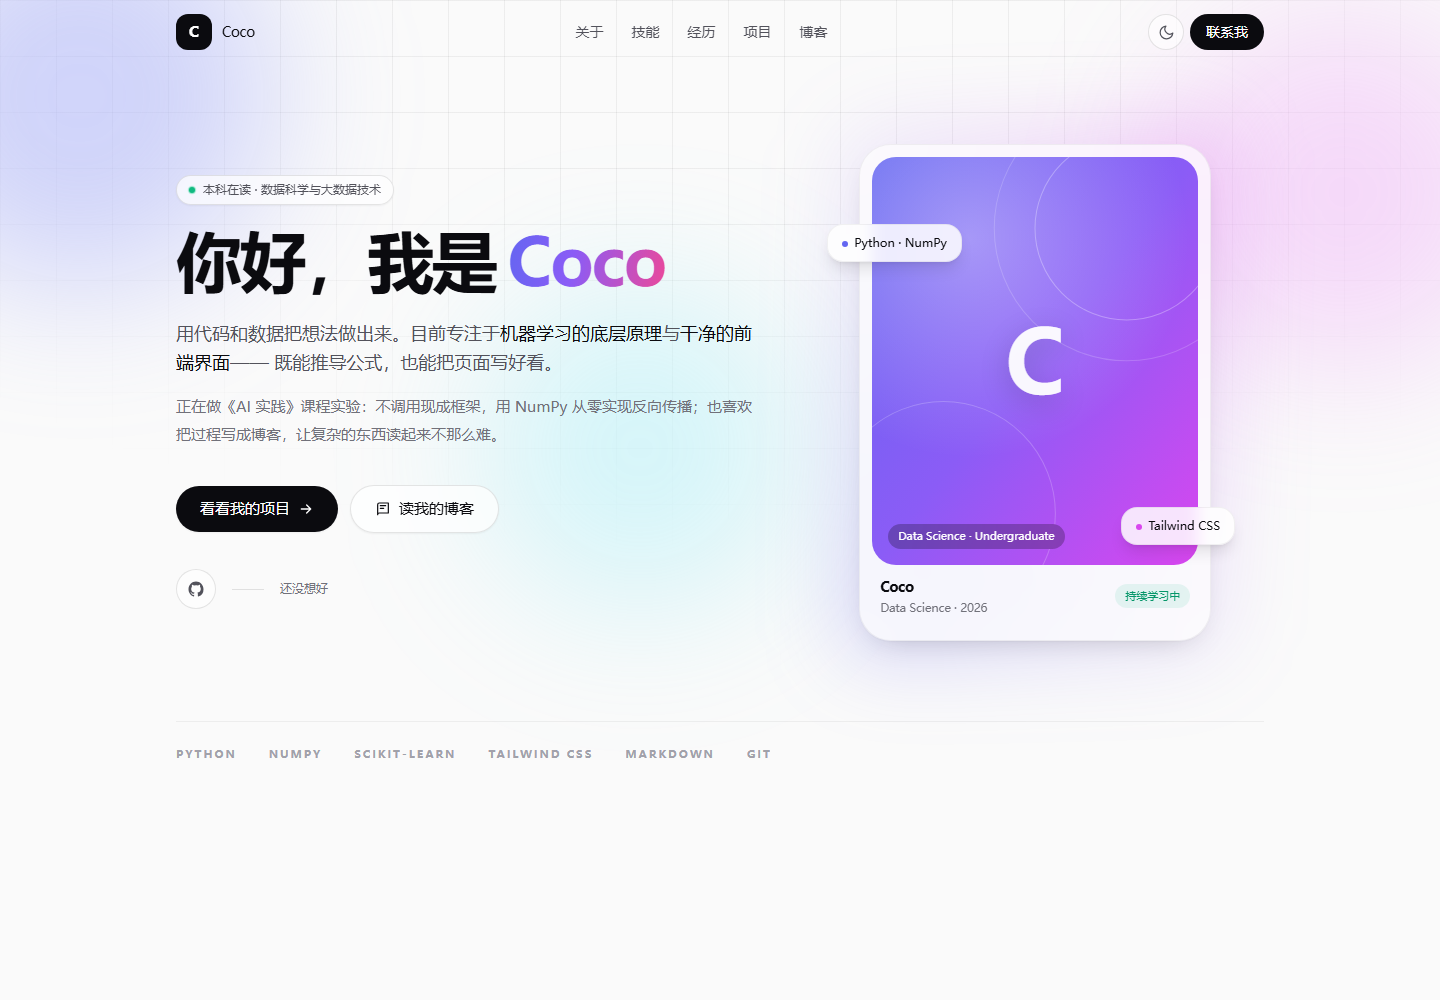
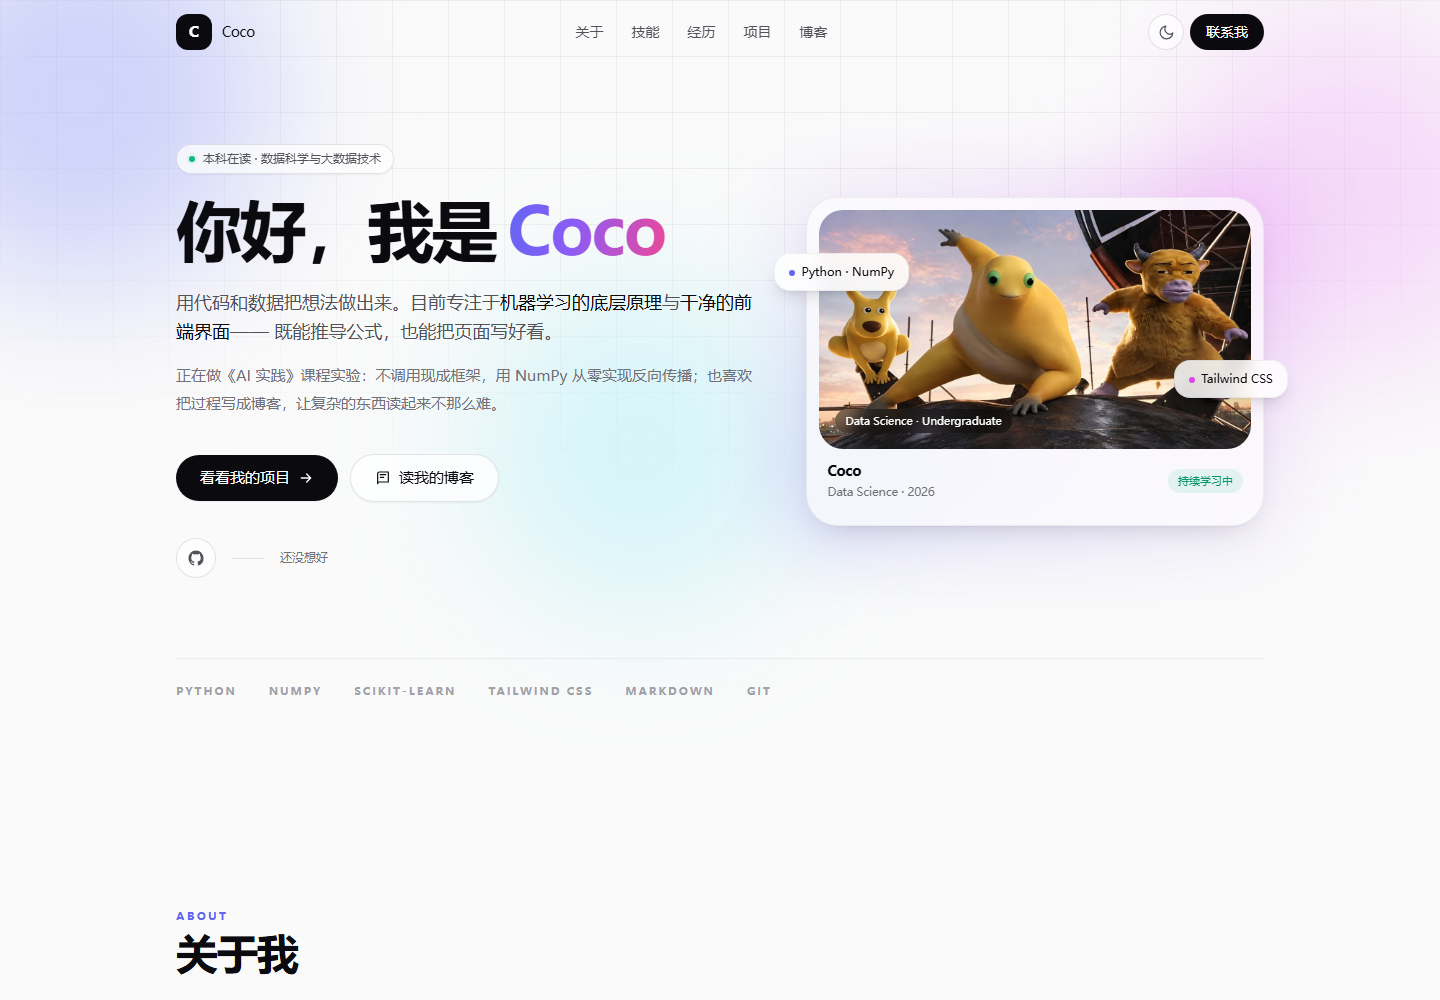
feat: 首屏视觉卡换成插画，并恢复被回退的播放器源码
- 首屏 4:5 竖版渐变卡（大写 C）替换为 hero-monster 插画
- 容器改为 aspect-[9/5]，贴合原图 1.80 比例，object-cover 等比铺满不拉伸
- 图片压到 1200px 宽 / 121KB，带 width/height 防抖动，首屏优先加载
- 桌面端卡片撑满右列，移动端 350px 自适应，无横向溢出
- 恢复 MusicPlayer.jsx / meting.js / 播放器图标与样式 / 入口挂载（此前被误删）
- 清理未使用的 profile.monogram 字段，同步更新截图与 README

diff --git a/src/components/Hero.jsx b/src/components/Hero.jsx
@@ -1,5 +1,6 @@
 import { heroTagline, profile, techStrip } from '../data/site.js'
 import { IconArrowRight, IconBook, IconGithub } from './Icons.jsx'
+import heroMonster from '../assets/hero-monster.jpg'
 
 export default function Hero() {
   return (
@@ -73,30 +74,24 @@ export default function Hero() {
           </div>
         </div>
 
-        {/* 头像卡：想换成真人照片，把下面这块渐变 div 换成 <img src="avatar.jpg" alt="..." className="h-full w-full object-cover" /> 即可 */}
-        <div className="relative mx-auto w-full max-w-[22rem]">
+        {/* 视觉卡：想换成自己的照片，替换 src/assets/hero-monster.jpg 即可，
+            容器用 aspect-[9/5] + object-cover，任何比例的照片都会等比铺满、不拉伸 */}
+        <div className="relative mx-auto w-full max-w-[24rem] lg:max-w-none">
           <div className="absolute -inset-5 rounded-[2.5rem] bg-gradient-to-tr from-indigo-500/25 via-violet-500/10 to-fuchsia-500/25 blur-2xl" />
 
           <div className="relative rounded-[2rem] border border-black/5 bg-white/70 p-3 shadow-soft backdrop-blur-xl dark:border-white/10 dark:bg-white/[0.06]">
-            <div className="relative aspect-[4/5] overflow-hidden rounded-[1.5rem] bg-gradient-to-br from-indigo-500 via-violet-500 to-fuchsia-500">
-              <svg
-                className="absolute inset-0 h-full w-full opacity-30"
-                viewBox="0 0 320 400"
-                fill="none"
-                aria-hidden="true"
-              >
-                <circle cx="250" cy="70" r="90" stroke="white" strokeWidth="1" />
-                <circle cx="250" cy="70" r="130" stroke="white" strokeWidth="1" opacity=".6" />
-                <circle cx="70" cy="350" r="110" stroke="white" strokeWidth="1" opacity=".7" />
-              </svg>
-              <div className="absolute inset-0 bg-[radial-gradient(circle_at_30%_20%,rgba(255,255,255,.35),transparent_55%)]" />
-              <span
-                className="absolute inset-0 grid place-items-center text-[5.5rem] font-semibold leading-none text-white/95"
-                style={{ textShadow: '0 8px 30px rgba(0,0,0,.18)' }}
-              >
-                {profile.monogram}
-              </span>
-              <span className="absolute bottom-4 left-4 rounded-full bg-black/25 px-2.5 py-1 text-[11px] font-medium text-white backdrop-blur">
+            <div className="relative overflow-hidden rounded-[1.5rem] bg-zinc-100 dark:bg-white/5">
+              <img
+                src={heroMonster}
+                alt="奶蛙怪兽插画"
+                width={1200}
+                height={666}
+                loading="eager"
+                decoding="async"
+                fetchPriority="high"
+                className="aspect-[9/5] w-full object-cover object-center"
+              />
+              <span className="absolute bottom-3 left-3 rounded-full bg-black/35 px-2.5 py-1 text-[11px] font-medium text-white backdrop-blur sm:bottom-4 sm:left-4">
                 {profile.since}
               </span>
             </div>
@@ -112,11 +107,11 @@ export default function Hero() {
             </div>
           </div>
 
-          <div className="absolute -left-8 top-20 hidden rounded-2xl border border-black/5 bg-white/85 px-3.5 py-2.5 text-xs font-medium shadow-lg backdrop-blur sm:block dark:border-white/10 dark:bg-white/10">
+          <div className="absolute -left-8 top-14 hidden rounded-2xl border border-black/5 bg-white/85 px-3.5 py-2.5 text-xs font-medium shadow-lg backdrop-blur sm:block dark:border-white/10 dark:bg-white/10">
             <span className="mr-1.5 inline-block h-1.5 w-1.5 rounded-full bg-indigo-500" />
             Python · NumPy
           </div>
-          <div className="absolute -right-6 bottom-24 hidden rounded-2xl border border-black/5 bg-white/85 px-3.5 py-2.5 text-xs font-medium shadow-lg backdrop-blur sm:block dark:border-white/10 dark:bg-white/10">
+          <div className="absolute -right-6 bottom-32 hidden rounded-2xl border border-black/5 bg-white/85 px-3.5 py-2.5 text-xs font-medium shadow-lg backdrop-blur sm:block dark:border-white/10 dark:bg-white/10">
             <span className="mr-1.5 inline-block h-1.5 w-1.5 rounded-full bg-fuchsia-500" />
             Tailwind CSS
           </div>

diff --git a/src/data/site.js b/src/data/site.js
@@ -1,10 +1,8 @@
 // 站点所有文案集中在这里，改内容只改这一个文件即可。
-// 注意：github 是占位，换成你自己的。
 
 export const profile = {
   name: 'Coco',
   initials: 'C',
-  monogram: 'C',
   role: '本科在读 · 数据科学与大数据技术',
   github: 'https://github.com/yuxuankang252',
   status: '持续学习中',

diff --git a/README.md b/README.md
@@ -1,8 +1,6 @@
 # 个人网站（React + Tailwind CSS）
 
-线上地址：**https://yuxuankang252.github.io/**
-
-仓库名是 `<用户名>.github.io`，所以站点直接跑在根域名上，不需要子路径。
+线上地址：**https://yuxuankang252.github.io/myweb/**
 
 静态站点，两个部分：**个人介绍**（首页）与 **博客**（占位中，下一步接 Markdown）。
 
@@ -24,34 +22,20 @@ index.html                  首页入口
 blog.html                   博客入口（Vite 多页）
 src/
   data/site.js              ← 所有文案：姓名、GitHub、技能、经历、项目
-  lib/meting.js             ← 音乐接口封装（歌单地址、歌词解析都在这里）
   components/               Nav / Hero / About / Skills / Journey / Projects / Contact / Footer
-                            + MusicPlayer.jsx（右下角悬浮播放器）
   pages/                    Home.jsx、Blog.jsx
+  assets/                   hero-monster.jpg（首屏插画）
+  lib/meting.js             音乐接口封装
   theme.jsx                 深浅色主题（localStorage 记忆）
   index.css                 Tailwind 指令 + 自定义样式
+scripts/push-api.mjs        git 通道不通时的备用推送脚本
 public/.nojekyll            GitHub Pages 用，别删
 .github/workflows/deploy.yml  推送即自动部署
 ```
 
-**改内容只需要动 `src/data/site.js`**，头像想换真人照片，改 `src/components/Hero.jsx` 里注释标出的那块。
+**改内容只需要动 `src/data/site.js`**。
 
-## 音乐播放器
-
-右下角的悬浮按钮，点开是一个小播放器：封面、曲名、进度条、歌词单行、上一首/下一首、音量；右上角列表图标可以看完整歌单。
-
-数据来自 [祈杰の Meting-API](https://api.qijieya.cn/meting/)（免费公开接口，带 `Access-Control-Allow-Origin: *`，纯前端可直接 fetch）：
-
-```
-https://api.qijieya.cn/meting/?server=netease&type=playlist&id=<歌单ID>
-```
-
-每条记录有 `name` / `artist` / `url`（302 跳到 mp3）/ `pic`（封面）/ `lrc`（歌词文本）。
-
-- **换歌单**：改 `src/lib/meting.js` 里的 `PLAYLIST_ID`（现在 `7254616088`）。换别的平台把 `SERVER` 改成 `tencent`。
-- **不自动播放**：浏览器会拦截没有用户操作的自动播放，所以进页面默认静音不动，点了才响。
-- **音频不经过你的仓库**：歌单和音频都走第三方接口，仓库里没有音乐文件；接口挂了播放器会提示「加载失败」，不影响页面其它部分。
-
+首屏那张插画想换：直接覆盖 `src/assets/hero-monster.jpg` 即可，**任何比例的照片都能用** —— 容器是 `aspect-[9/5]` + `object-cover`，图片会等比铺满、不会被拉伸；比例和 9:5 差太多的部分会被居中裁掉。想让照片完整露出来，就把 `Hero.jsx` 里 img 的 `aspect-[9/5]` 改成接近照片比例的值（例如竖图用 `aspect-[4/5]`）。
 
 ## 部署到 GitHub Pages
 
@@ -76,20 +60,6 @@ https://api.qijieya.cn/meting/?server=netease&type=playlist&id=<歌单ID>
 如果仓库名恰好是 `<用户名>.github.io`，地址就是 `https://<用户名>.github.io/`。
 
 > 不想用 Actions 也可以手动部署：`npm run build` 后把 `dist/` 里的文件推到 `gh-pages` 分支，Pages 的 Source 选那个分支。
-
-### 备用推送方式：`scripts/push-api.mjs`
-
-如果 `git push` 连不上 `github.com`（报 `CONNECT tunnel failed` 或超时），可以改用 GitHub REST API 推送：
-
-```bash
-node scripts/push-api.mjs --dry-run   # 先看会推哪些文件
-node scripts/push-api.mjs             # 真正推送
-```
-
-它走 `api.github.com`，只上传内容有变化的文件，提交信息沿用本地最后一次提交，推完同样会触发 Actions 部署。
-token 优先读环境变量 `GH_TOKEN`，没有就用 `git credential fill` 取本机已保存的凭据。
-
-注意：这种方式推上去的提交 sha 与本地不同，网络恢复后先 `git fetch origin && git reset --hard origin/main` 对齐一次。
 
 ## 下一步：Markdown 博客
 
